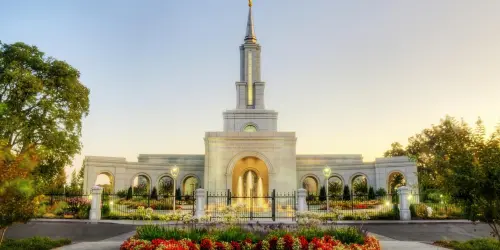
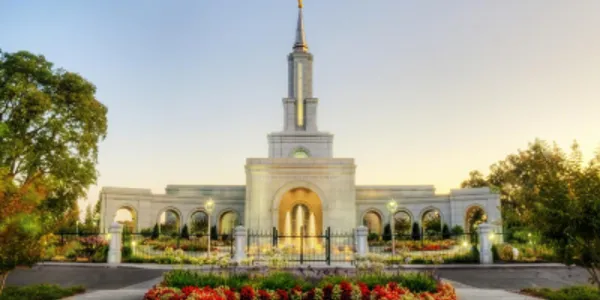
modified images to have less  e ory by lowering quality a bit.

diff --git a/index.html b/index.html
@@ -45,7 +45,6 @@
       <div class="hero">
         <picture id="hero-picture">
           <source media="(max-width: 500px)" srcset="./images/hero-smaller.webp">
-          <source media="(max-width: 750px)" srcset="./images/hero-small.webp">
           <source media="(max-width: 1000px)" srcset="./images/hero-sm-med.webp">
           <img src="./images/hero-large.webp" alt="Image Settings" loading="lazy">
         </picture>
@@ -68,8 +67,9 @@
               <li>week 02: <a href="./week02/design.html">Design Principal</a>
                           <a href="https://codepen.io/devunfox15/pen/gOEXJwR?editors=0110">Responsive menu</a>
                         <a href="./week02/bom.html">BOM Top Ten</a></li>
-              <li>week 03: <a href="week03/images/landscape.webp">WebP</a> <a href="./week03/lazyload.html"> 
-                <a href="./week03/bom.html">BOM Pt.2</a> 
+              <li>week 03: 
+                <a href="./week03/images/landscape.webp">WebP</a> 
+                <a href="./week03/bom.html">BOM Pt.2 </a> 
                 <a href="./week03/lazyload.html">lazyload</a> 
                 <a href="./week03/responsive-images.html">responsive-images activity</a>
               </li>

diff --git a/styles/base.css b/styles/base.css
@@ -50,7 +50,6 @@ header {
 }
 body{
   background-color: #F5F5F5;
-  background-image: url(../images/homepage-background.webp);
 }
 main{
   margin: 0 auto;
